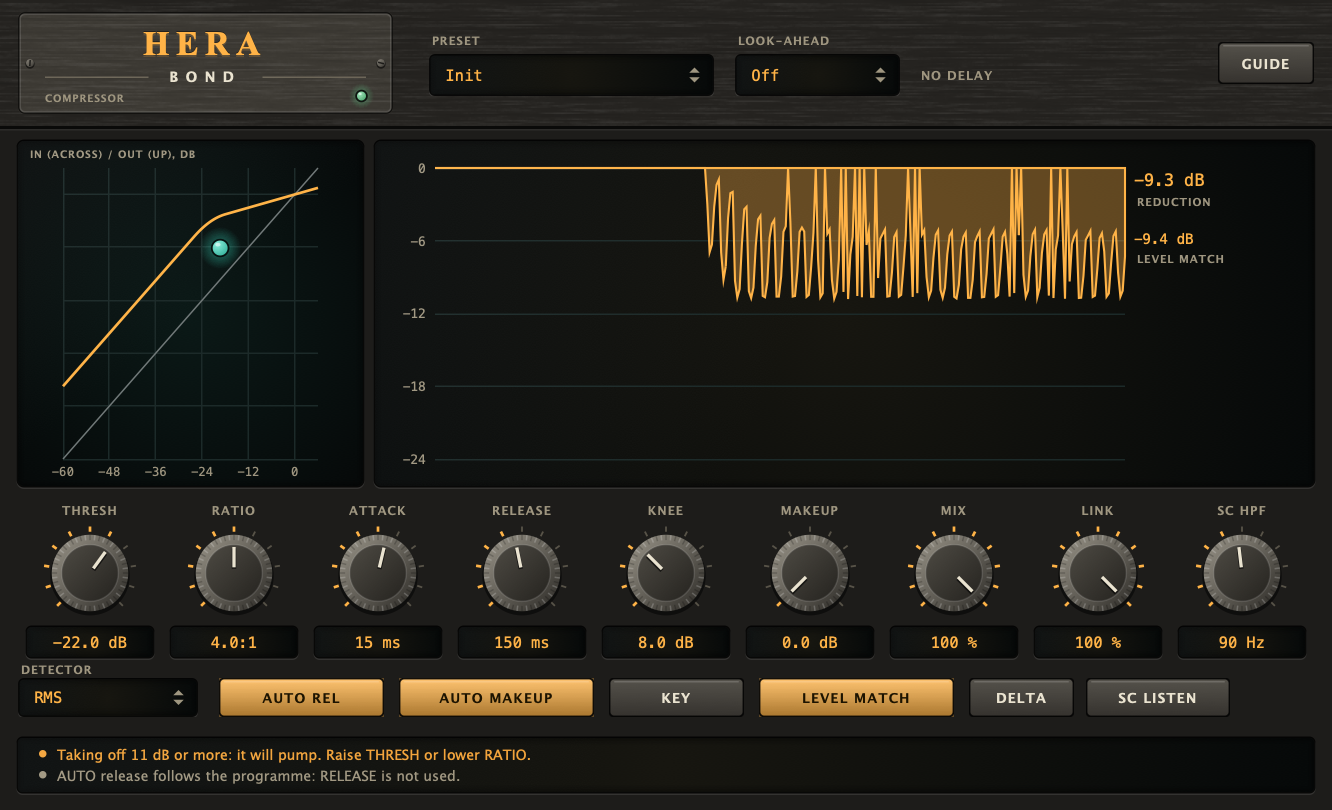
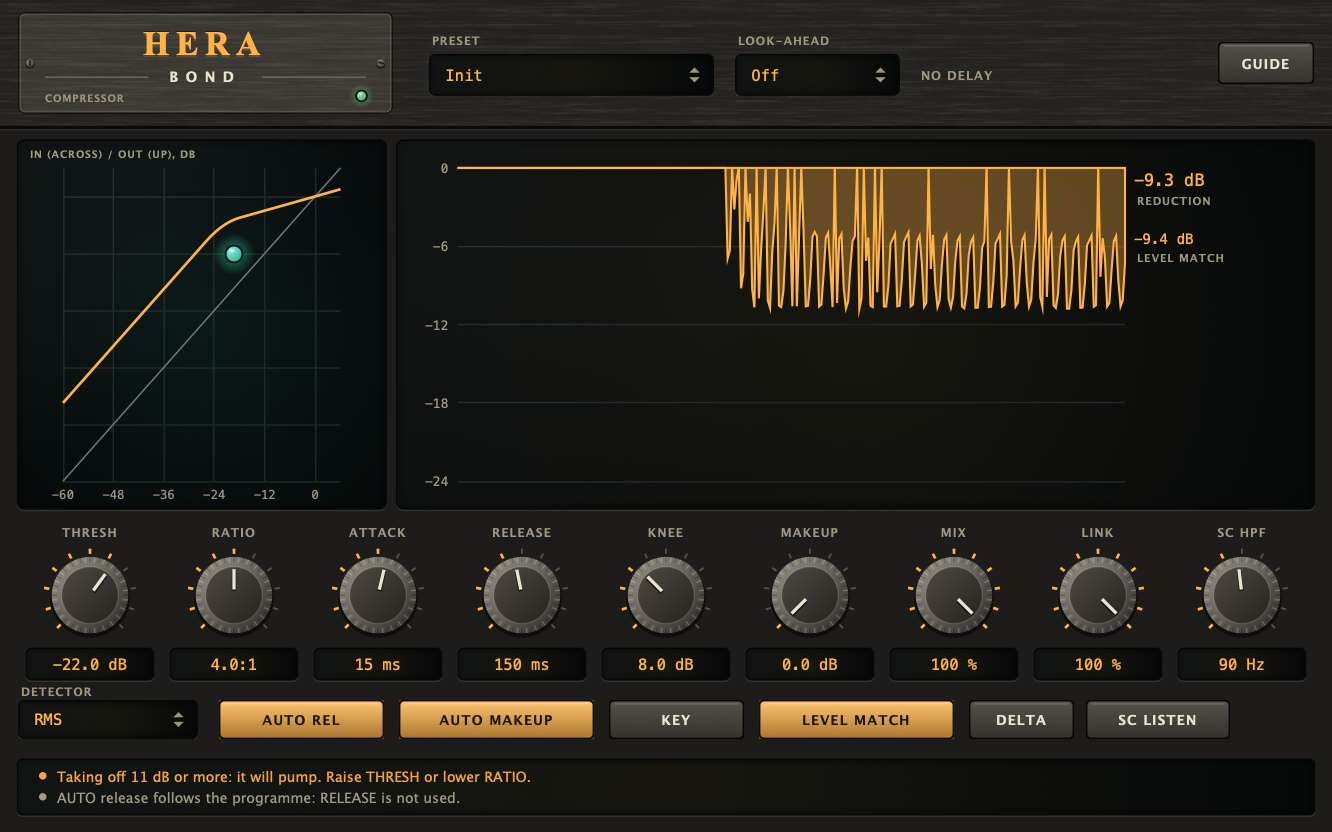
Hera: 16:10 window, the display takes the rest of the height
The editor's width is the knob row (24 + kKnobs x cellWidth) and its
height is ui::editorHeightFor of that width. The display is what the
header, knob row, the row under it and the note strip leave, instead of
a fixed 230 px. UiCheck pins the shape; the screenshot is regenerated.

diff --git a/plugins/hera/Source/PluginEditor.cpp b/plugins/hera/Source/PluginEditor.cpp
@@ -3,18 +3,21 @@
 
 #include "PluginEditor.h"
 
+#include <pantheon/ui/Aspect.h>
+
 using namespace hera;
 namespace hw = ui::hw;
 
 namespace
 {
 constexpr int headerHeight = 84;
-constexpr int displayHeight = 230;
 constexpr int kKnobs = 9;
 constexpr int cellWidth = 96;
 constexpr int cellHeight = 108;
 constexpr int rowHeight = 34;
 constexpr int kTimerHz = 30;
+constexpr int kWidth = 24 + kKnobs * cellWidth, kHeight = ui::editorHeightFor (kWidth); // 16:10, the kit's shape
+constexpr int displayHeight = kHeight - (headerHeight + 10 + 8 + cellHeight + 8 + rowHeight + 10 + ui::kNoteStripHeight + 12); // the display takes what the rest leaves
 }
 
 HeraEditor::HeraEditor (HeraProcessor& p)
@@ -49,7 +52,7 @@ HeraEditor::HeraEditor (HeraProcessor& p)
     for (auto* c : std::initializer_list<juce::Component*> { &threshold, &ratio, &attack, &release, &knee, &makeup, &mix, &link, &hpf, &detector, &lookahead, &presetBox, &autoRelease, &autoMakeup, &key, &levelMatch, &deltaButton, &listenButton, &guideButton })
         addAndMakeVisible (*c);
     startTimerHz (kTimerHz);
-    setSize (24 + kKnobs * cellWidth, headerHeight + 10 + displayHeight + 8 + cellHeight + 8 + rowHeight + 10 + ui::kNoteStripHeight + 12);
+    setSize (kWidth, kHeight);
 }
 
 HeraEditor::~HeraEditor()

diff --git a/plugins/hera/Tests/UiCheck.cpp b/plugins/hera/Tests/UiCheck.cpp
@@ -61,6 +61,7 @@ int main()
     {
         std::unique_ptr<juce::AudioProcessorEditor> holder (proc.createEditor());
         auto& editor = ui::innerOf<HeraEditor> (*holder);
+        check (ui::hasEditorAspect (editor.getWidth(), editor.getHeight()), "the editor is drawn at 16:10, the shape of every plugin");
         editor.setVisible (true);
         check (editor.detector.getNumItems() == kNumDetectors, "the detector selector has the parameter's items");
         check (editor.getWidth() > 800 && editor.hpf.getRight() <= editor.getWidth() && editor.key.getBottom() < editor.getHeight(), "the knobs and switches fit the window");
